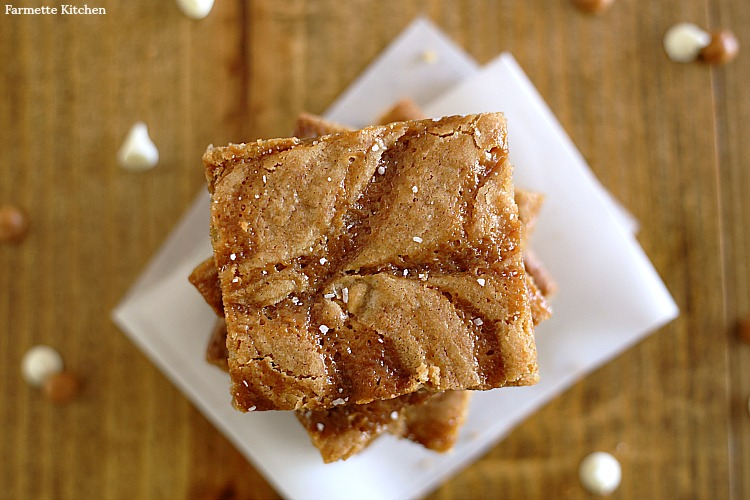
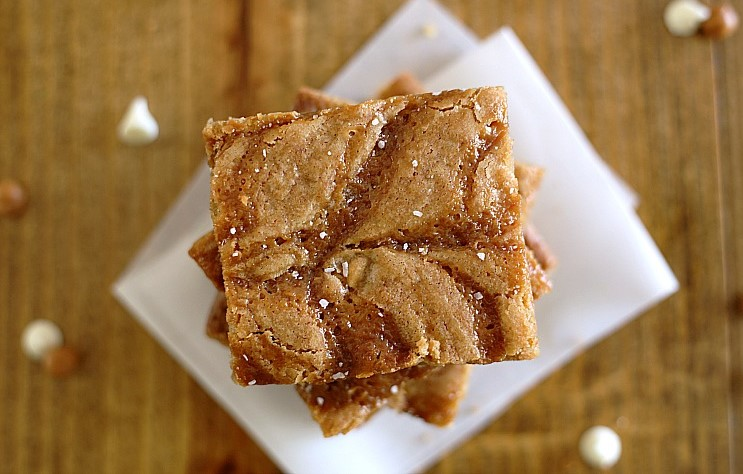
added image

diff --git a/style.css b/style.css
@@ -4,9 +4,14 @@ body{
   font-family: 'Montserrat','Roboto', sans-serif;
 width: 90%;
 margin: 0 auto;
-background-image: url("images/blondie3.jpg");
-background-repeat: no-repeat;
-background-size: cover;
+line-height: 2em;
+background-color: #ffffff;
+}
+img.align-center{
+  display: block;
+  width: 600px;
+  height: 250px;
+  margin: 0px auto;
 
 }
 
@@ -15,7 +20,11 @@ h1{
   font-size: 3em;
 }
 
-#blondie {overflow: auto;}
+h4{
+  text-align: center;
+  text-decoration: underline;
+}
+
 
 #nav, #feature, #footer {
 margin: 5%;}
@@ -26,6 +35,7 @@ width: 31.3%;
 -webkit-box-shadow: 5px 5px 5px #777777;
 box-shadow: 5px 5px 5px #777777;
 border-radius: 10px;
+background-color: #f6ffc2;
 
 float: left;
 margin: 1%;
@@ -33,17 +43,17 @@ margin: 1%;
 }
 .preperation{
   border-style: dotted;
-  cursor: url("images/opened-scissors.png");
+
+
 }
 .nutrition {margin-right: 0%;}
 
 
 
 #nav, #footer {
-background-color: #efefef;
+background-color:
 padding: 0.5em 0;}
 
 #feature, .dessert {
 height: auto;
 margin-bottom: 1em;
-background-color: #efefef;}

diff --git a/index.html b/index.html
@@ -32,10 +32,10 @@
 </div>
 <div id="blondie">
  <div id="feature">
- <p>pictures</p>
+ <p><img src="images/blondie1.jpg" alt=blondie class="center"/></p>
  </div>
  <div class="dessert ingredients">
- <p>Ingredients:</p>
+ <h4>Ingredients:</h4>
  <ul>
    <li>8 tablespoons (1 stick) unsalted butter, softened</li>
    <li>1 cup packed brown sugar</li>
@@ -47,7 +47,7 @@
 </ul>
  </div>
  <div class="dessert preperation">
- <p>Preperation</p>
+ <h4>Preperation</h4>
  <ol>
    <li>Preheat oven to 350º F. Spray an 8x8 baking pan with nonstick cooking spray. Set aside.</li>
    <li>Cream together butter and sugar until light and fluffy, about 3 minutes. Add in egg, vanilla, salt, and all-purpose flour. Mix just until well-combined. Spread into baking pan.</li>
@@ -56,7 +56,7 @@
    </ol>
  </div>
  <div class="dessert nutrition">
- <p>Nutrition</p>
+ <h4>Nutrition</h4>
  <ul>
    <li>Calories: 143</li>
    <li>Fat: 7.16g</li>
